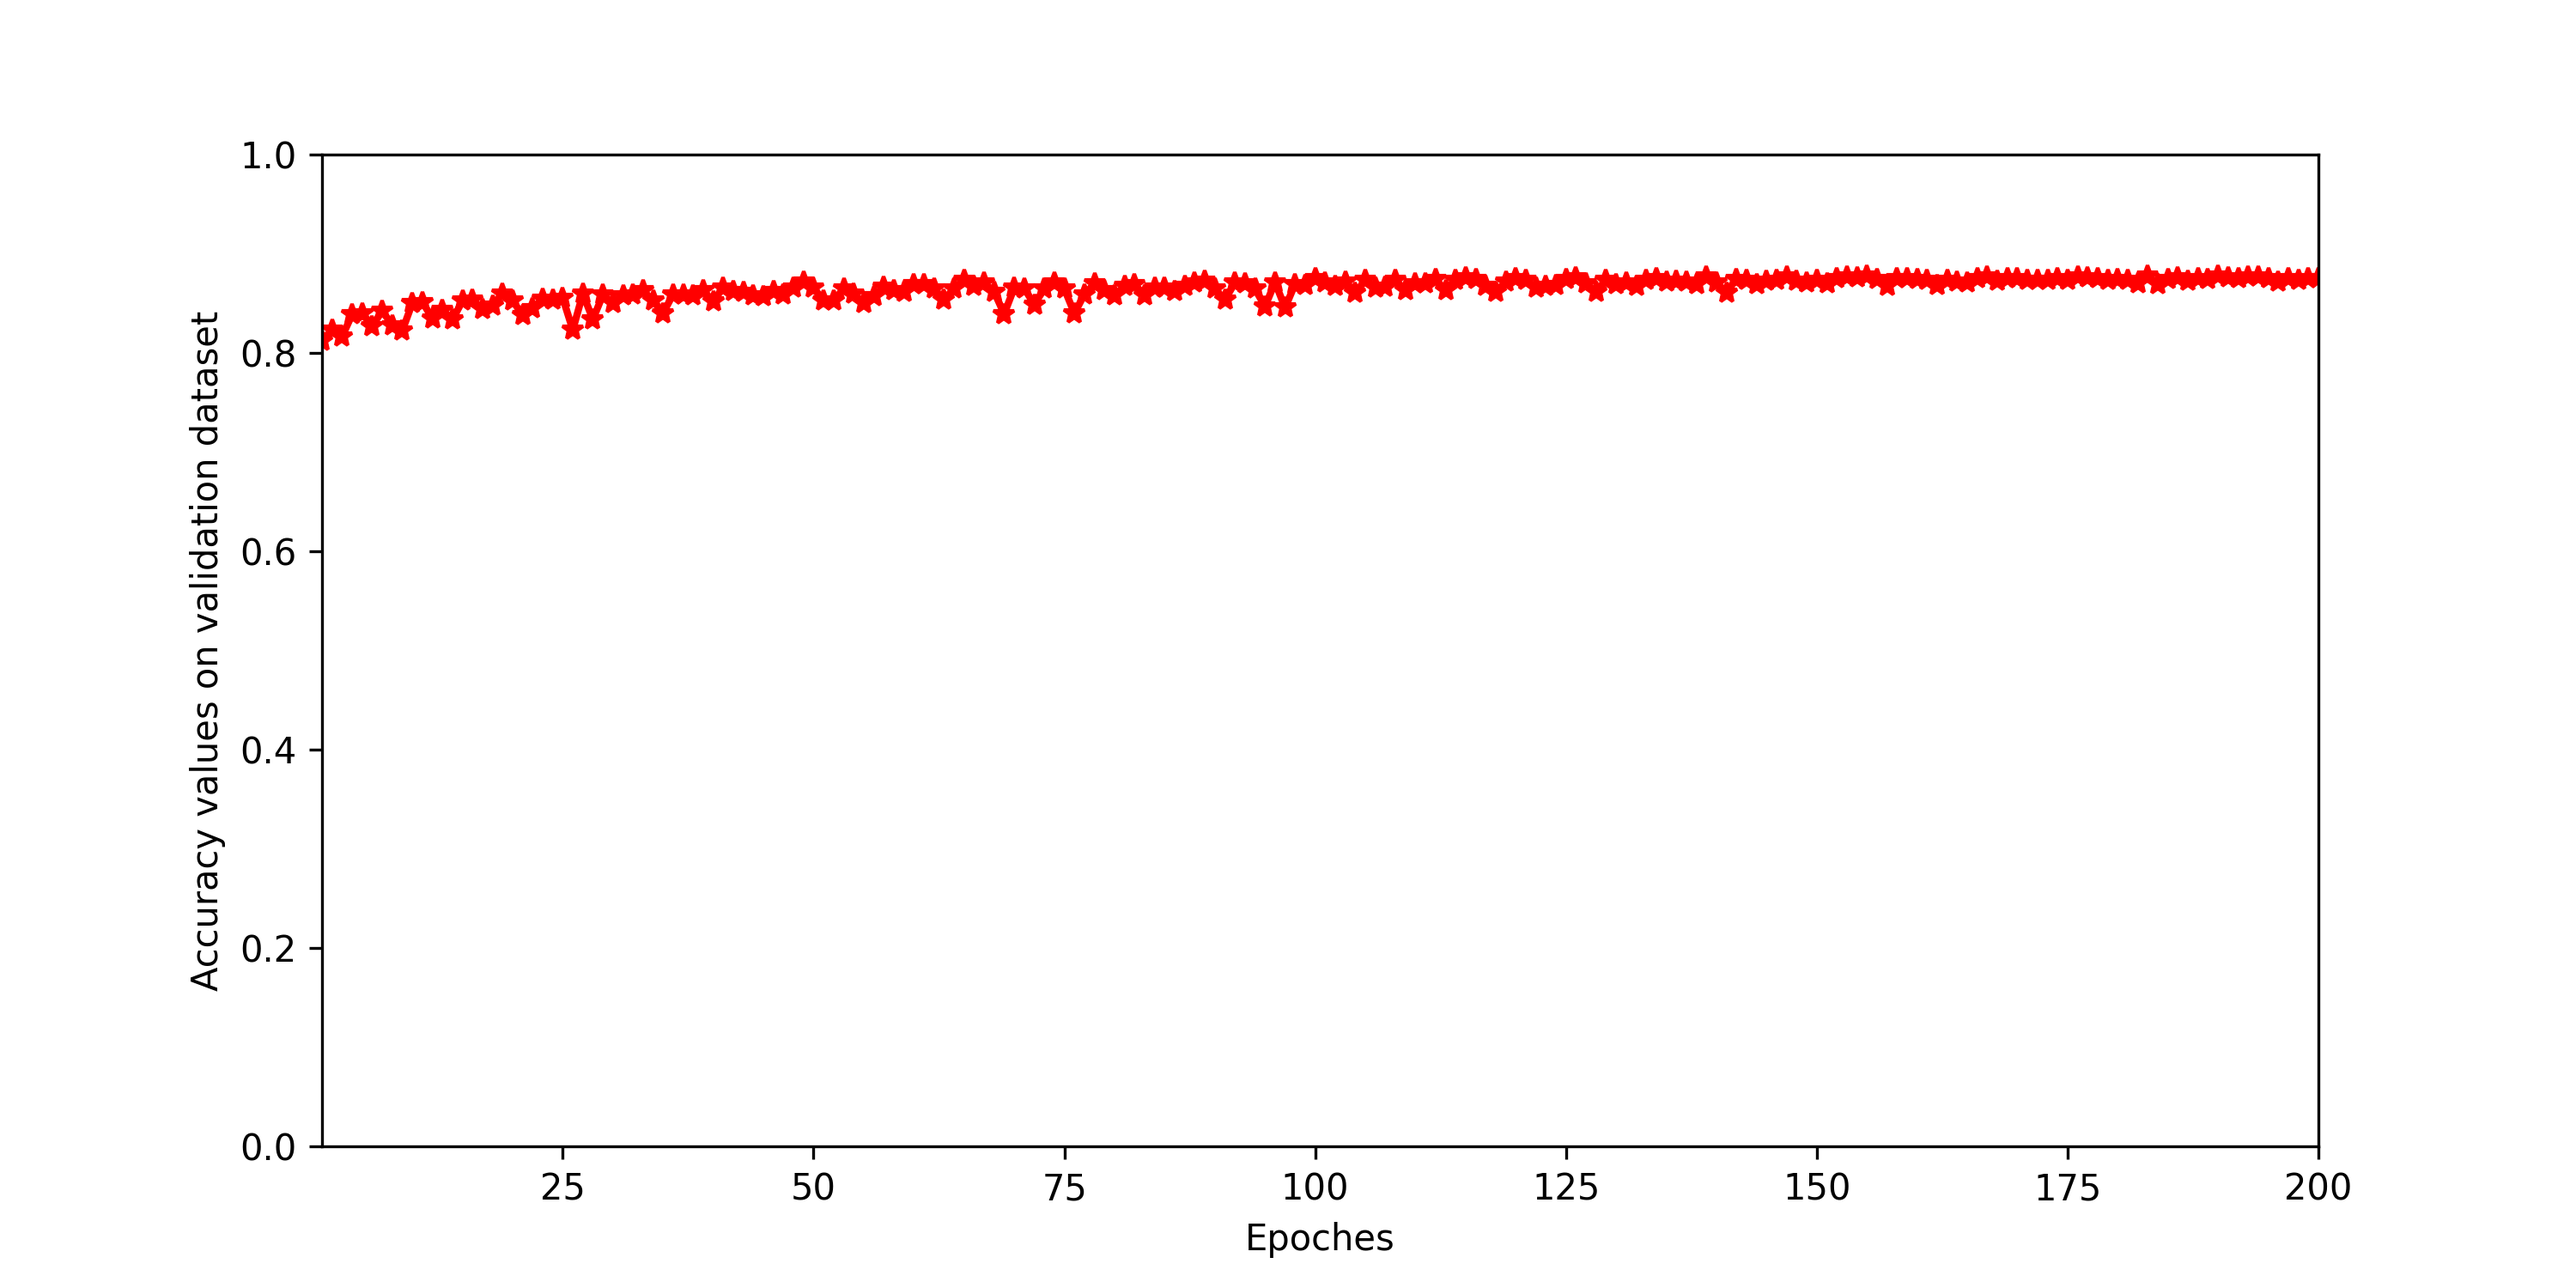
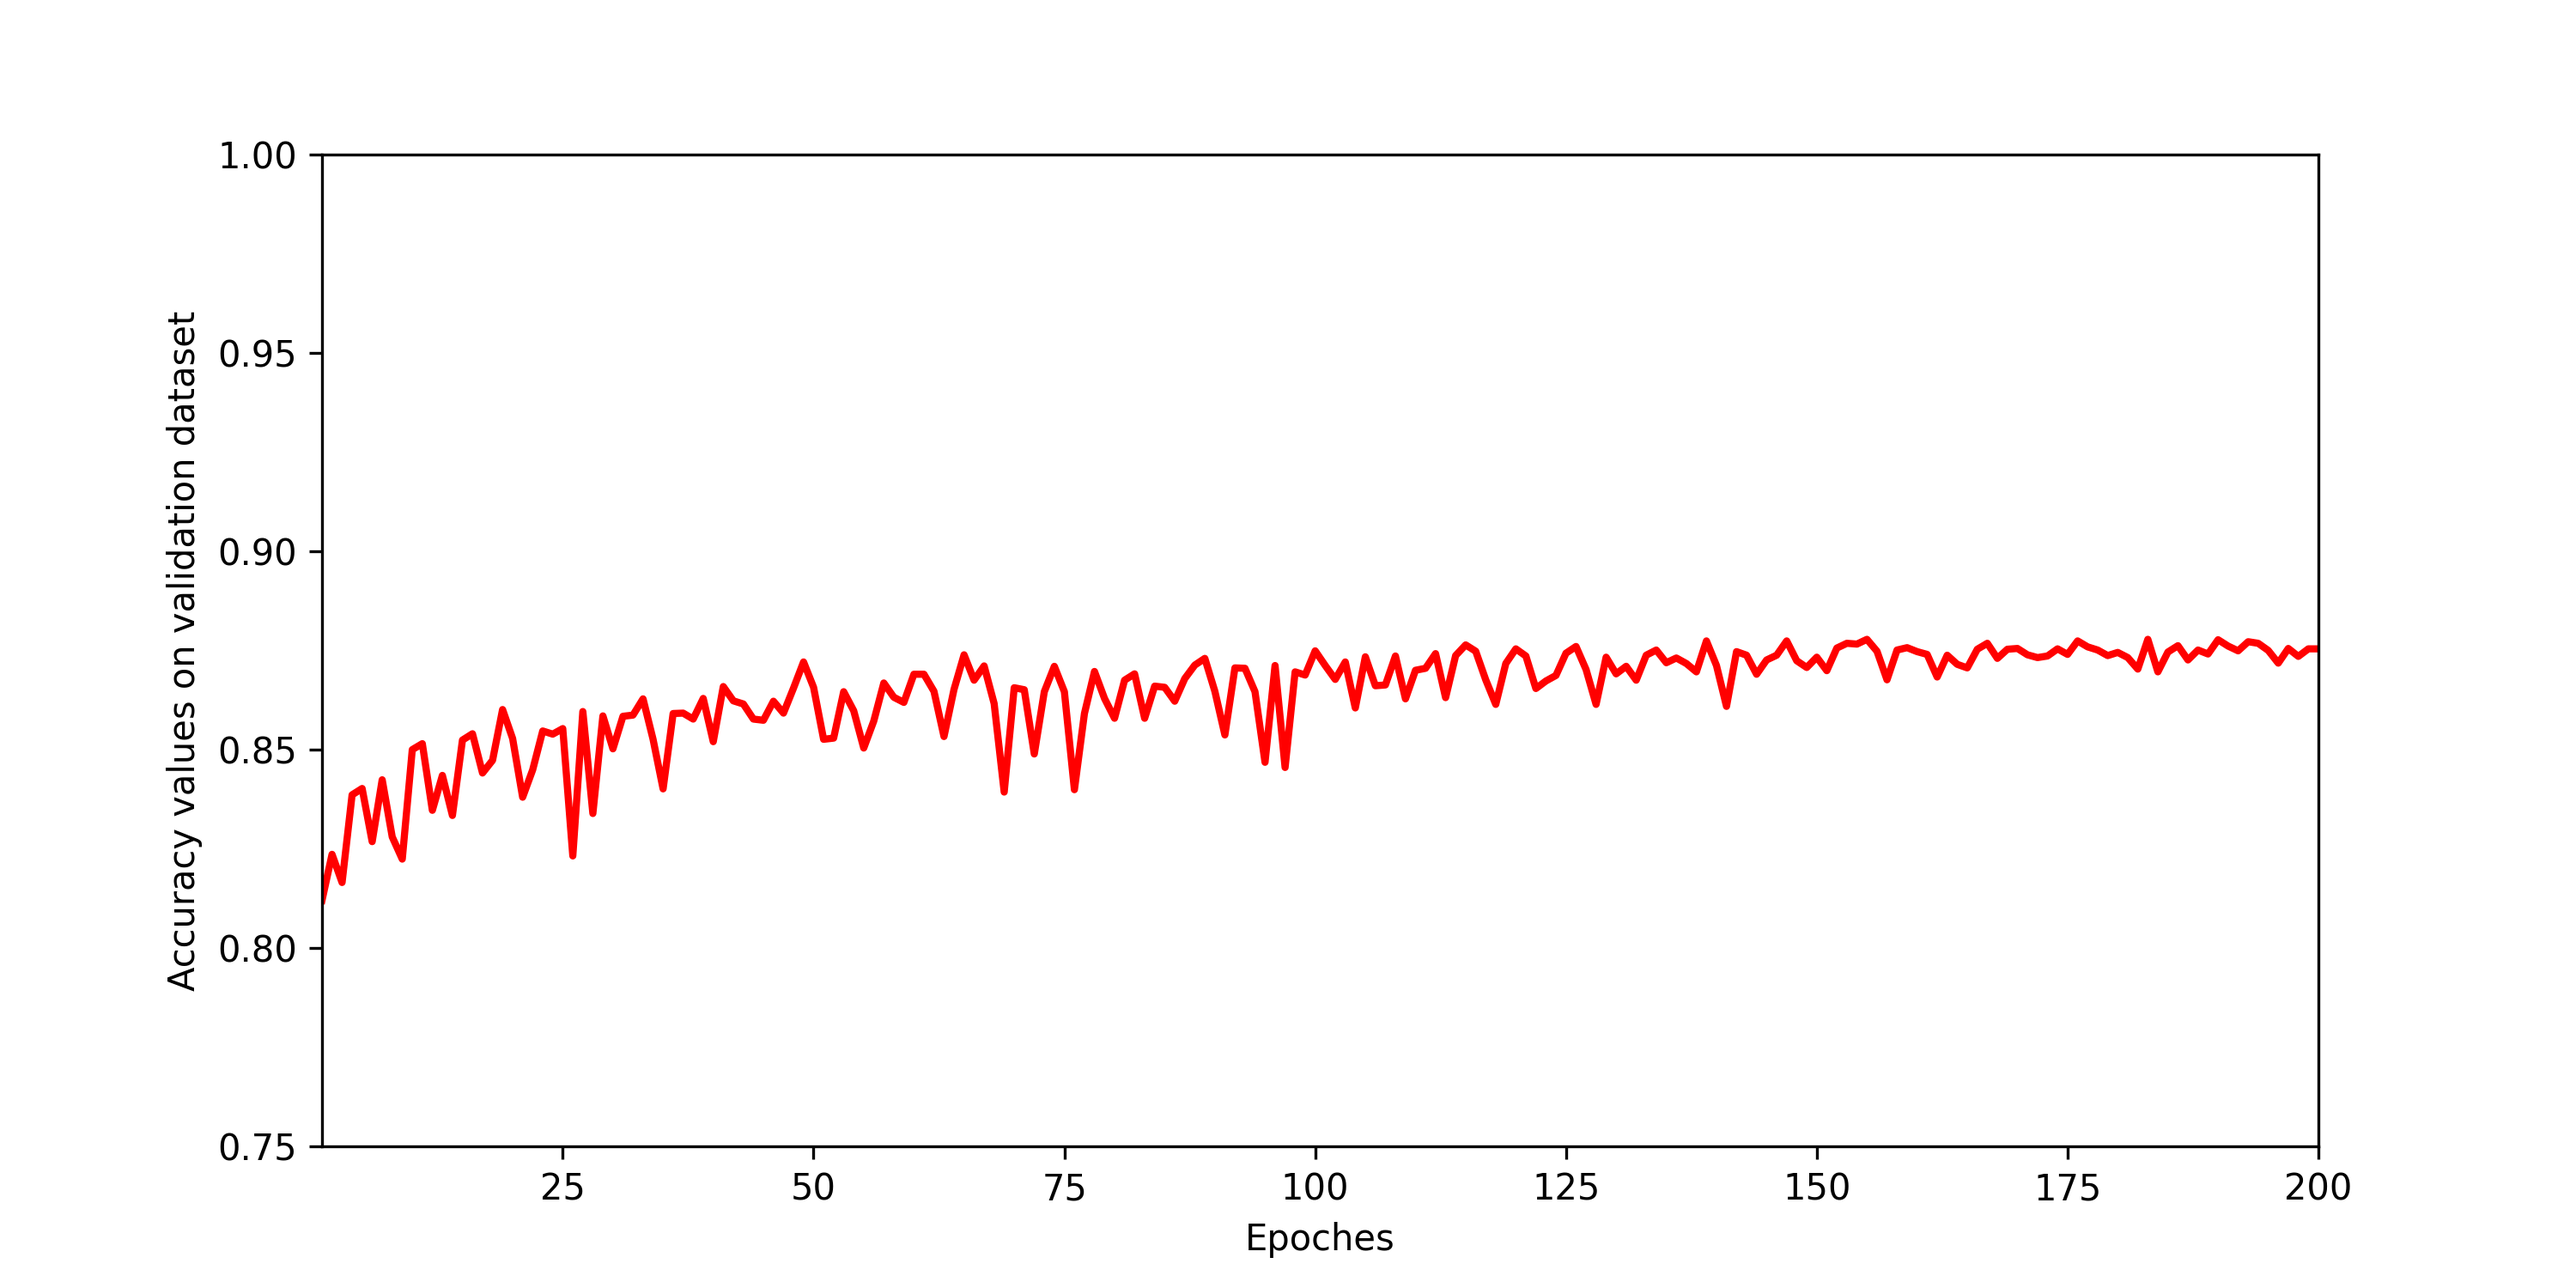
add metricsPlot pyfile for curve

diff --git a/codes/s7_plotMetrics.py b/codes/s7_plotMetrics.py
@@ -17,11 +17,11 @@ print('Load log file success!')
 # pattern = re.compile('\*\*\*\*\*\*\*\*_Loss_\*\*\*\*\*\*\*\* \d*.\d*')
 accpattern = re.compile('Accuracy :  \d*\.\d\d\d\d')
 acc = [float(one.split(' ')[-1]) for one in accpattern.findall(content)]
-
+#acc = acc[0::2]
 plt.figure(figsize=(10, 5))
-plt.plot(range(1,len(acc)+1), acc, 'r-*', lw=2)
+plt.plot(range(1,len(acc)+1), acc, 'r-', lw=2)
 plt.xlim([1, len(acc)])
-plt.ylim([0, 1.0])
+plt.ylim([0.75, 1.0])
 plt.xlabel('Epoches')
 plt.ylabel('Accuracy values on validation dataset')
 # plt.title('Accuracy values range in Epoches for Altered / No altered')
@@ -35,9 +35,9 @@ losspattern = re.compile('Avgloss\d*\.\d\d\d\d')
 loss = [float(one.split('s')[-1]) for one in losspattern.findall(content)]
 
 plt.figure(figsize=(10, 5))
-plt.plot(range(1,len(loss)+1), loss, 'b-.', lw=1)
+plt.plot(range(1,len(loss)+1), loss, 'b-.', lw=2)
 plt.xlim([1, len(loss)])
-plt.ylim([0, max(loss)])
+plt.ylim([min(loss), max(loss)])
 plt.xlabel('Epoches')
 plt.ylabel('Loss values range on training dataset')
 # plt.title('Loss & Accuracy values range in Epoches for Altered / No altered')
